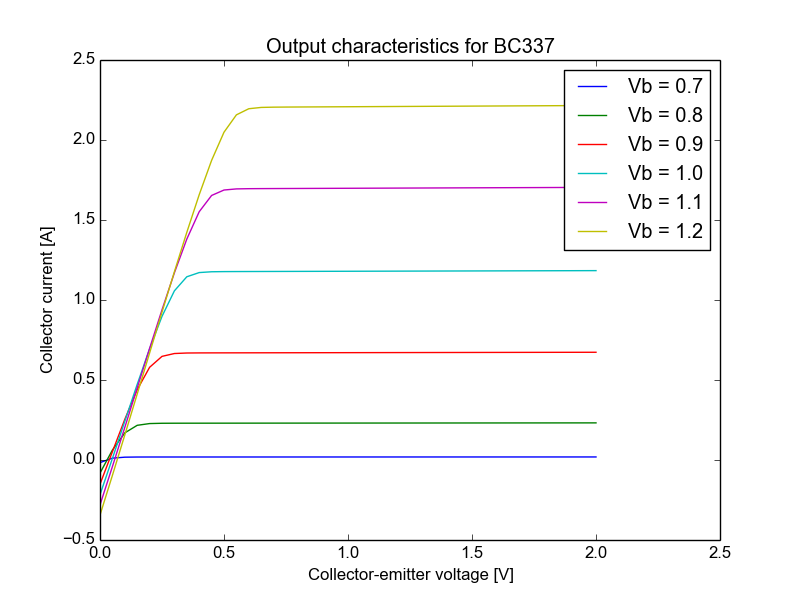
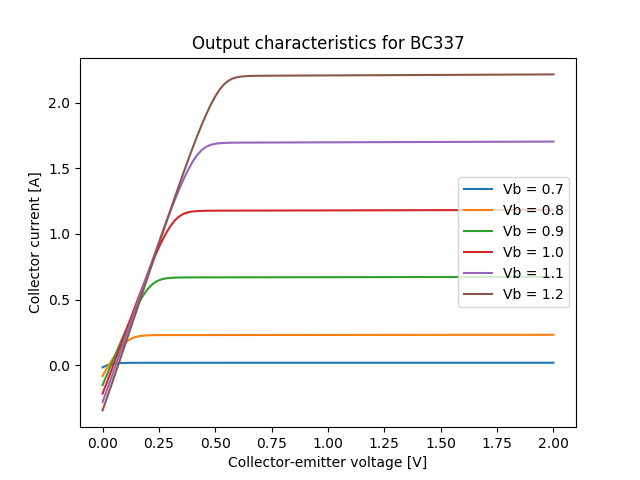
Smoother lowpass/NPN curve examples
Increase resolution for better plots

diff --git a/examples/npn/npn.py b/examples/npn/npn.py
@@ -10,7 +10,7 @@ from matplotlib import pyplot as plt
 ngspyce.source('npn.net')
 
 # Sweep both base and collector current
-ngspyce.cmd('dc vcc 0 2 .05 vbb .7 1.2 .1')
+ngspyce.cmd('dc vcc 0 2 .02 vbb .7 1.2 .1')
 
 # Load simulation results into numpy arrays
 vb, vc, Ivcc = map(ngspyce.vector, ['Vb', 'Vc', 'I(Vcc)'])
@@ -25,7 +25,7 @@ for _vb in series:
     plt.plot(vc[vb == _vb], ic[vb == _vb], '-',
              label='Vb = {:.1f}'.format(_vb))
 
-plt.legend()
+plt.legend(loc='center right')
 plt.title('Output characteristics for BC337')
 plt.xlabel('Collector-emitter voltage [V]')
 plt.ylabel('Collector current [A]')

diff --git a/examples/lowpass/lowpass.py b/examples/lowpass/lowpass.py
@@ -11,7 +11,7 @@ ngspyce.source('lowpass.net')
 
 # Calculate small-signal transfer function between 1 kHz and 10 MHz, with 5
 # points per decade
-ngspyce.ac(mode='dec', npoints=5, fstart=1e3, fstop=10e6)
+ngspyce.ac(mode='dec', npoints=7, fstart=1e3, fstop=10e6)
 
 # Read results
 freq = np.abs(ngspyce.vector('frequency'))
